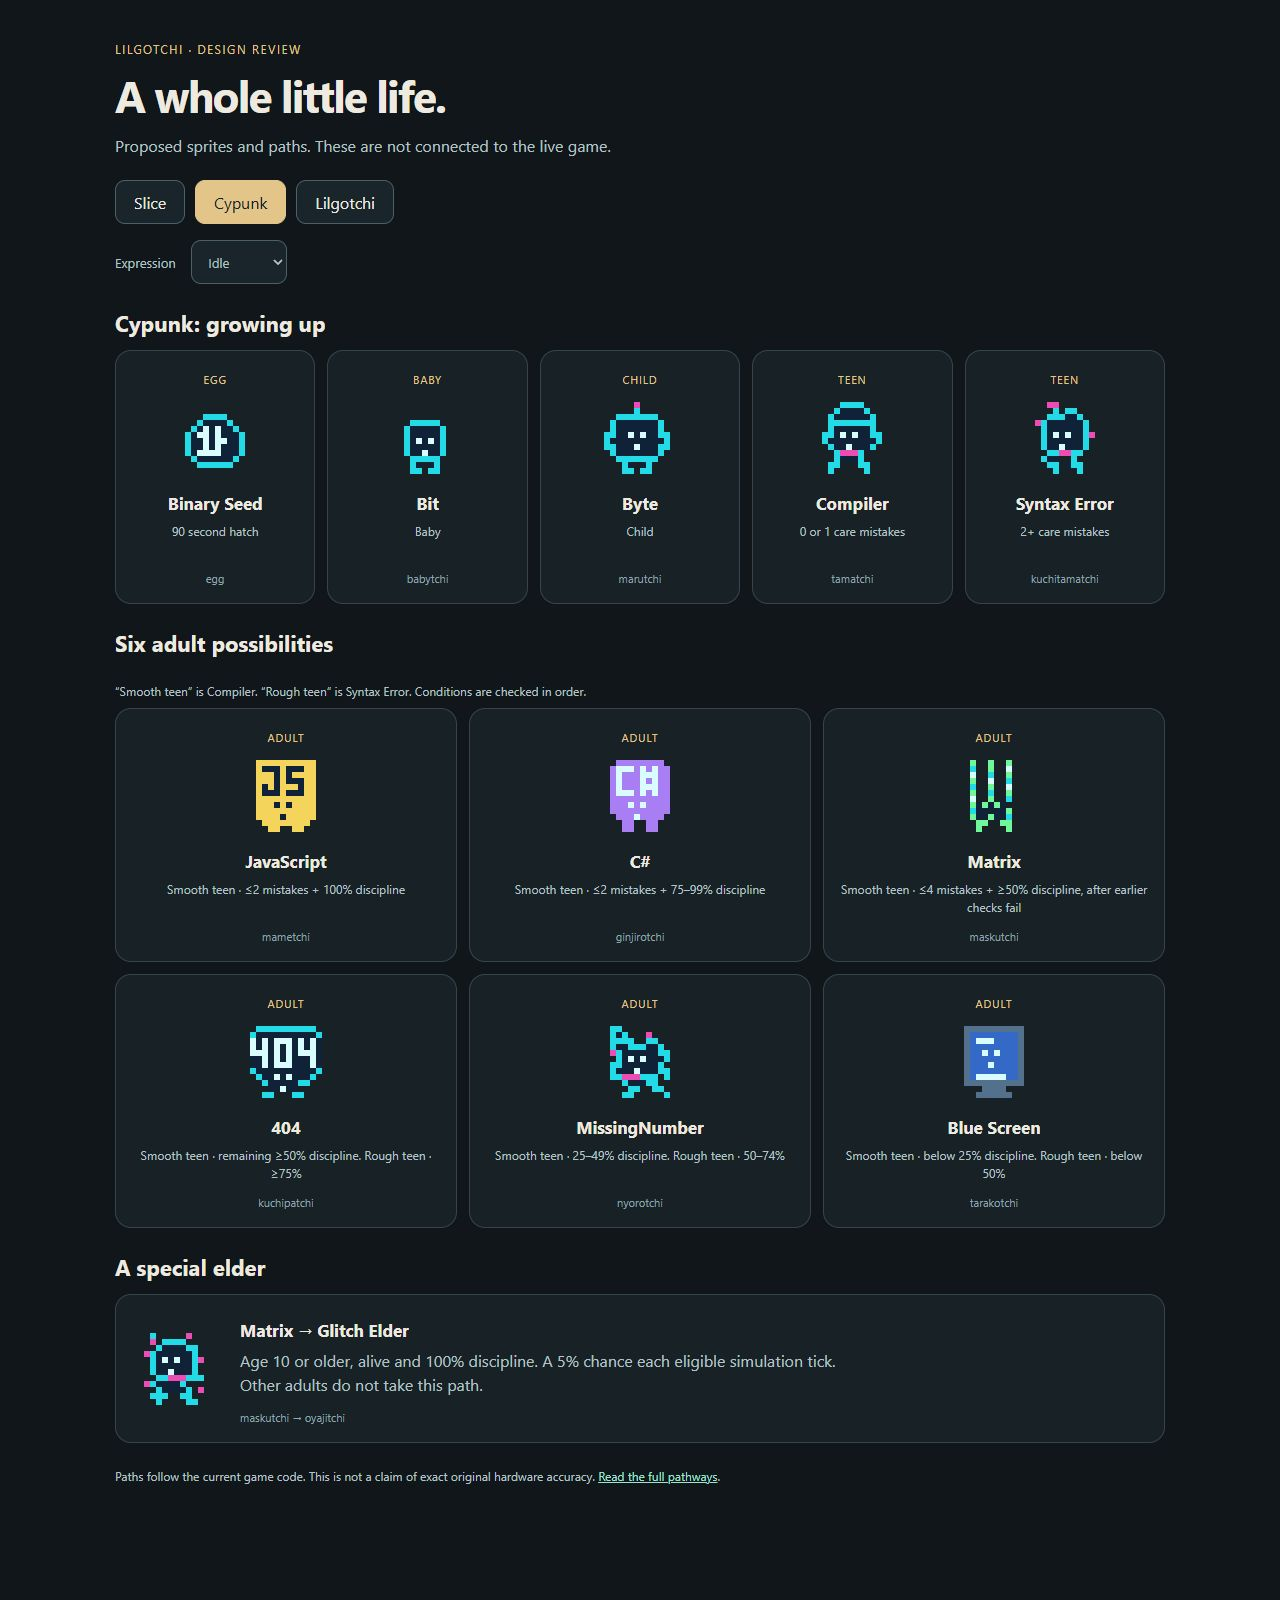
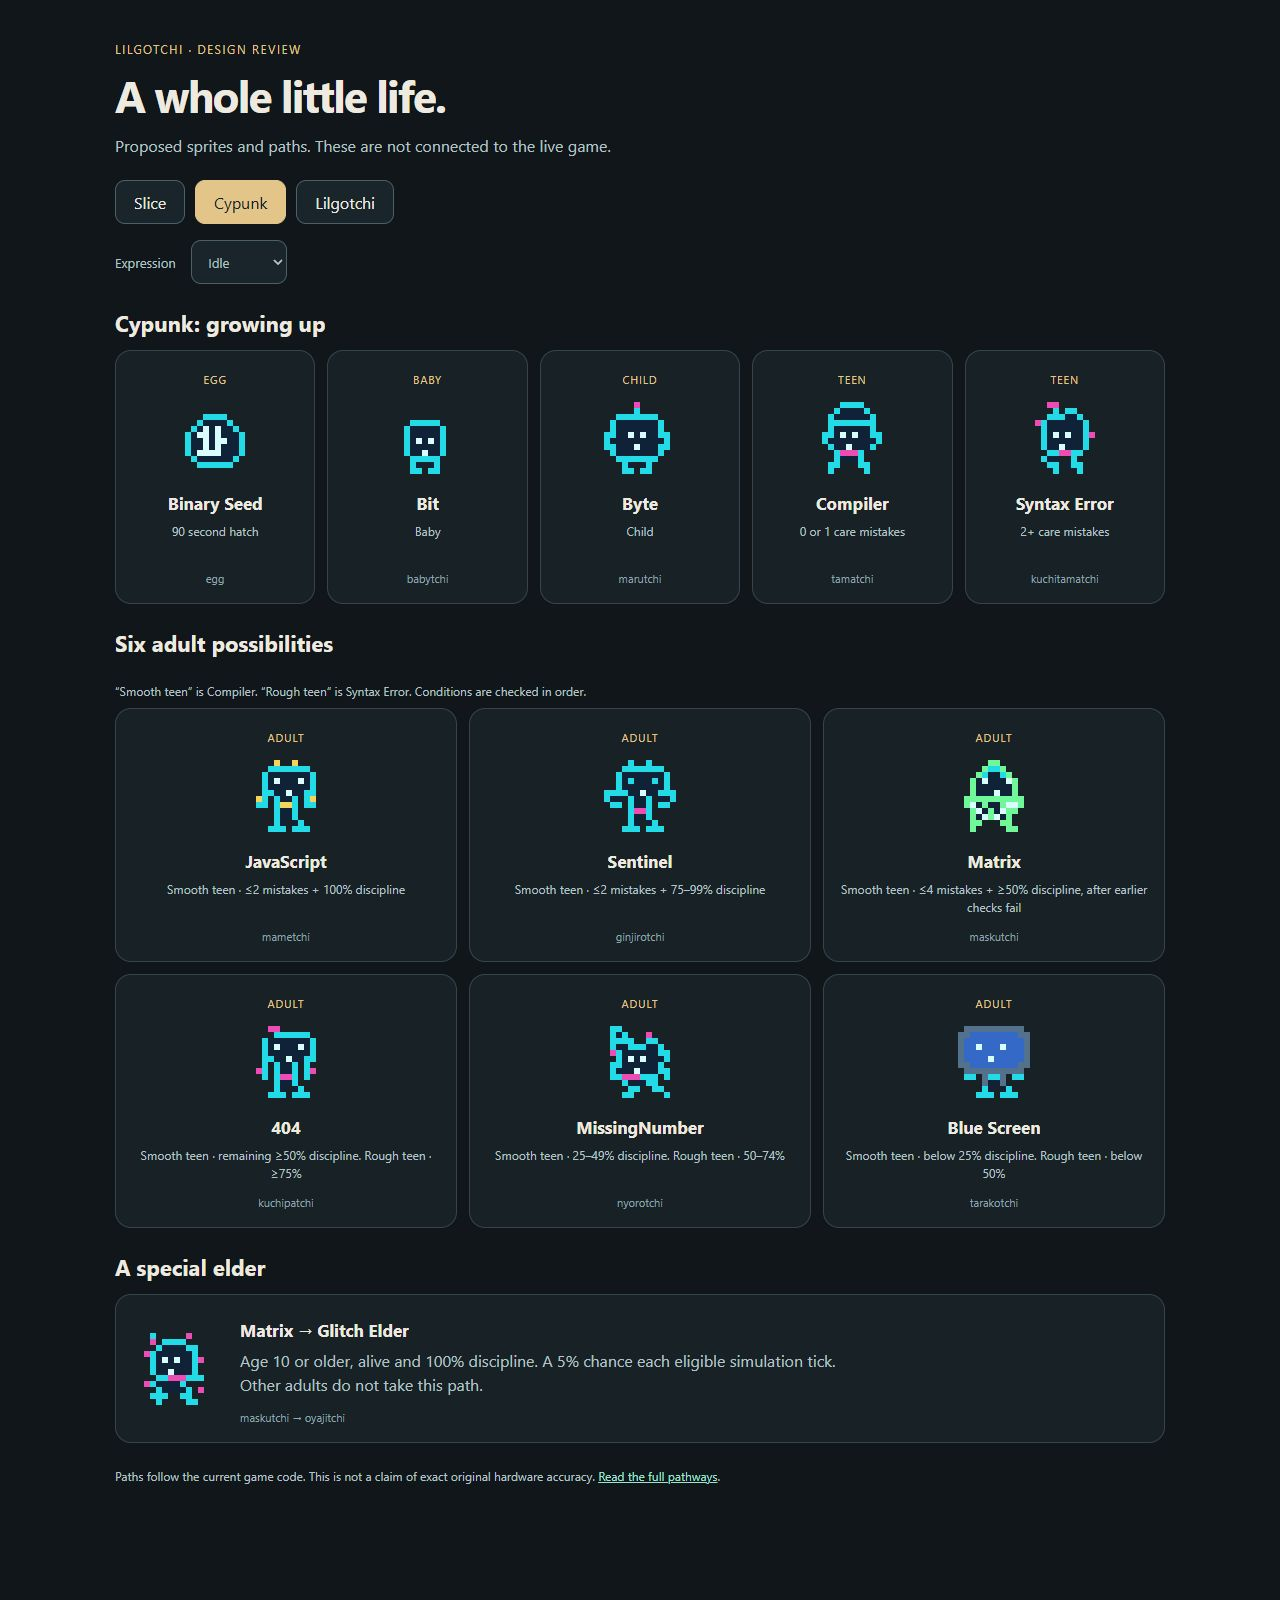
bring back the cypunk character

diff --git a/design/evolution/cypunk.js b/design/evolution/cypunk.js
@@ -1,14 +1,10 @@
 // Review proposals only. Nothing in the live game imports this module.
+import { cyberpunkSprites } from '../../pets/cyberpunk-sprites.js';
 const palette = ['', '#d9fcff', '#102238', '#22dbe7', '#ec4cb4', '#53718c', '#70f79a', '#f4d45b', '#a97ef5', '#3569c8'];
 const expressions = {
   idle1:['101','000','010'], idle2:['101','000','111'],
   happy:['101','000','101'], sad:['000','101','010'],
   eat:['101','010','111'], sleep:['000','101','000'],
-};
-const glyphs = {
-  J:['111','001','001','101','111'], S:['111','100','111','001','111'],
-  C:['111','100','100','100','111'], '#':['101','111','101','111','101'],
-  '4':['101','101','111','001','001'], '0':['111','101','101','101','111'],
 };
 const drawings = [
   {id:'egg',name:'Binary Seed',stage:'egg',rows:['000033330000','000322223000','003212122300','032112122230','032212112230','032212122230','032111122230','003222222300','000333333000','000000000000']},
@@ -16,12 +12,12 @@ const drawings = [
   {id:'marutchi',name:'Byte',stage:'child',face:[4,5],rows:['000004000000','000003000000','003333333000','032222222300','032222222300','332222222330','322222222230','332222222330','032222222300','003333333000','000320230000','000330330000']},
   {id:'tamatchi',name:'Compiler',stage:'teen',face:[4,5],rows:['000033330000','000322223000','003222222300','003333333300','003222222300','033222222330','032222222230','003222222300','000344430000','000322230000','003300033000','003000003000']},
   {id:'kuchitamatchi',name:'Syntax Error',stage:'teen',face:[4,5],rows:['000440000000','000030330000','000333223000','043222222300','003222222300','003222222340','003222222300','003222222300','000334433000','003220030000','000330233000','000030003000']},
-  {id:'mametchi',name:'JavaScript',stage:'adult',face:[4,7],background:7,ink:2,label:['JS',2,1,2],rows:['077777777770','077777777770','077777777770','077777777770','077777777770','077777777770','077777777770','077777777770','077777777770','077777777770','007777777700','000770077000']},
-  {id:'ginjirotchi',name:'C#',stage:'adult',face:[4,7],background:8,label:['C#',2,1,1],rows:['008888888800','088888888880','088888888880','088888888880','088888888880','088888888880','088888888880','088888888880','088888888880','008888888800','000880088000','000880088000']},
-  {id:'maskutchi',name:'Matrix',stage:'adult',face:[4,7],ink:6,rows:['006006006000','003006001000','001003006000','006001003000','003006001000','006003006000','001006003000','006222220000','003222226000','006222223000','000660066000','000600006000']},
-  {id:'kuchipatchi',name:'404',stage:'adult',face:[4,8],label:['404',0,2,1],rows:['033333333330','322222222223','222222222222','222222222222','222222222222','222222222222','222222222222','322222222223','032222222230','003222223300','000222220000','003300033000']},
+  {id:'mametchi',name:'JavaScript',stage:'adult',face:[4,3],faceWidth:5,rows:['000070070000','000333333300','003222222230','003222222230','003222222230','003333333330','073032230370','033037730330','000032230000','000032230000','000032023000','000333033300']},
+  {id:'ginjirotchi',name:'Sentinel',stage:'adult',original:true},
+  {id:'maskutchi',name:'Matrix',stage:'adult',face:[4,3],faceWidth:5,rows:['000006600000','000063360000','000632236000','006222222600','006222222600','006222222600','066666666660','061262261160','006126216600','006216126000','006600066000','006000006600']},
+  {id:'kuchipatchi',name:'404',stage:'adult',face:[4,3],faceWidth:5,rows:['000440000000','000033333300','003222222230','003222222230','003222222230','003333333330','003032230300','043032230340','003034430300','000032230000','000032023000','000333033300']},
   {id:'nyorotchi',name:'MissingNumber',stage:'adult',face:[4,5],rows:['033000000000','032300040000','033330033000','032233322300','043222222330','003222222230','033222222300','032222222330','033444333030','000322233000','000033003300','000330000030']},
-  {id:'tarakotchi',name:'Blue Screen',stage:'adult',face:[4,4],background:9,rows:['055555555550','059999999950','059111999950','059999999950','059999999950','059999999950','059999999950','059999999950','059111119950','055555555550','000055550000','000555555000']},
+  {id:'tarakotchi',name:'Blue Screen',stage:'adult',face:[3,3],faceWidth:5,background:9,rows:['055555555550','559999999955','599999999995','599999999995','599999999995','599999999995','559999999955','055555555550','033053350330','000052250000','000032023000','000333033300']},
   {id:'oyajitchi',name:'Glitch Elder',stage:'adult',face:[4,4],rows:['003000004000','004033330000','000322223300','043222222300','003222222340','003222222300','003222222300','000334443330','043222230000','000322223040','003330033000','000300003300']},
 ];
 function canvas(rows) {
@@ -29,20 +25,17 @@ function canvas(rows) {
   return [...Array(12-rows.length).fill(''),...rows].map(row=>[...row.padEnd(12,'0')].map(Number));
 }
 function draw(definition,expression) {
+  if(definition.original)return cyberpunkSprites.mametchi[expression];
   const pixels=canvas(definition.rows);
-  if(definition.label){
-    const [text,x,y,color]=definition.label;
-    [...text].forEach((letter,index)=>glyphs[letter].forEach((row,dy)=>[...row].forEach((pixel,dx)=>{
-      if(pixel==='1')pixels[y+dy][x+index*4+dx]=color;
-    })));
-  }
   if(definition.face){
     const [x,y]=definition.face;
-    expressions[expression].forEach((row,dy)=>[...row].forEach((pixel,dx)=>{
+    const wide={idle1:['10001','00000','00100'],idle2:['10001','00000','01110'],happy:['01010','10001','01110'],sad:['00000','10001','01110'],eat:['10001','00100','01110'],sleep:['00000','11011','00000']};
+    const face=definition.faceWidth===5?wide[expression]:expressions[expression];
+    face.forEach((row,dy)=>[...row].forEach((pixel,dx)=>{
       pixels[y+dy][x+dx]=pixel==='1'?(definition.ink||1):(definition.background||2);
     }));
   }
-  // Tiny accent movements preserve the label and body. No flashing or random noise.
+  // Small antenna and code movements keep the face and silhouette steady.
   if(expression==='idle2'){
     if(definition.id==='egg')pixels[9][7]=4;
     else if(definition.id==='maskutchi'){pixels[1][2]=1;pixels[2][2]=6;}

diff --git a/design/evolution/cypunk.md b/design/evolution/cypunk.md
@@ -11,15 +11,15 @@ These are review proposals only. They are not imported by the live game, include
 | marutchi | Byte | Wider chip with an antenna and side contacts |
 | tamatchi | Compiler | Upright terminal character with a neat head and body |
 | kuchitamatchi | Syntax Error | Uneven terminal with detached magenta pixels |
-| mametchi | JavaScript | Yellow square with a readable JS mark and a small face |
-| ginjirotchi | C# | Purple medallion with a readable C# mark and a small face |
-| maskutchi | Matrix | Three green code streams gathering into a face |
-| kuchipatchi | 404 | Wide floating error panel with three readable digits |
+| mametchi | JavaScript | Cyan robot with yellow antenna tips, scarf, hands and feet |
+| ginjirotchi | Sentinel | The original Cypunk adult, with its exact sprite and expressions |
+| maskutchi | Matrix | Green hooded companion with a face, code cloak and feet |
+| kuchipatchi | 404 | Lost little robot with a bent magenta antenna and lowered arms |
 | nyorotchi | MissingNumber | Original asymmetric block creature with broken edges and magenta fragments |
-| tarakotchi | Blue Screen | Blue monitor with a face, status lines and a stand |
+| tarakotchi | Blue Screen | Wide blue monitor companion with a face, arms and feet |
 | oyajitchi | Glitch Elder | Cyan elder made of separated chunks and magenta fragments |
 
-MissingNumber is an original abstract design, not a copied game sprite. Language marks and error numbers stay readable during care reactions. Matrix advances two accent pixels between idle poses. Glitch Elder shifts one detached pixel. Neither uses flashing or rapid color changes.
+MissingNumber is an original abstract design, not a copied game sprite. Faces stay readable during care reactions. Matrix advances two accent pixels between idle poses. Glitch Elder shifts one detached pixel. Neither uses flashing or rapid color changes.
 
 ## Pathways
 
@@ -30,7 +30,7 @@ Compiler adult routes are evaluated in this order. The first matching condition 
 | Priority | Requirement at adult evolution | Result |
 | --- | --- | --- |
 | 1 | At most two care mistakes and 100% discipline | JavaScript |
-| 2 | At most two care mistakes and at least 75% discipline | C# |
+| 2 | At most two care mistakes and at least 75% discipline | Sentinel |
 | 3 | At most four care mistakes and at least 50% discipline | Matrix |
 | 4 | At least 50% discipline, with earlier conditions not met | 404 |
 | 5 | At least 25% discipline, with earlier conditions not met | MissingNumber |
@@ -42,4 +42,11 @@ Matrix is the special elder route. Once it reaches age 10 or older with 100% dis
 
 ## Review questions
 
-Check that JS, C# and 404 remain legible at the actual game scale. Compare the three streams of Matrix against the irregular silhouette of MissingNumber. Keep Glitch Elder visibly older and more fragmented than Syntax Error. The preview should show all six expressions so the names are not the only distinguishing feature.
+Check that JavaScript, Sentinel and 404 feel like individual companions at the actual game scale. Compare the hooded Matrix against the irregular silhouette of MissingNumber. Keep Glitch Elder visibly older and more fragmented than Syntax Error. The preview should show all six expressions so the names are not the only distinguishing feature.
+
+
+## Character revision
+
+The C# badge is replaced by Sentinel, the exact original Cypunk adult sprite and expressions. Sentinel occupies the Ginjirotchi branch in this proposal. JavaScript is a friendly cyan robot with yellow antenna tips and a yellow scarf, not a lettering tile. 404 is a lost little robot with a bent magenta antenna and lowered arms, keeping the original Cypunk proportions. Neither wears a word or number across its face.
+
+Matrix has a visible face inside a green hood, a short cloak with falling code accents, and feet. Blue Screen is a wider monitor companion with a face, little arms and sturdy feet. MissingNumber and Glitch Elder retain their existing proposed shapes.

diff --git a/design/evolution/README.md b/design/evolution/README.md
@@ -7,7 +7,7 @@ Each new pet type covers all 12 original identities: egg, baby, child, two teens
 | Original adult | Slice | Cypunk | Lilgotchi |
 | --- | --- | --- | --- |
 | Mametchi | Margherita | JavaScript | Duck Egg |
-| Ginjirotchi | Pepperoni | C# | Quail Egg |
+| Ginjirotchi | Pepperoni | Sentinel | Quail Egg |
 | Maskutchi | BBQ Chicken | Matrix | Goose Egg |
 | Kuchipatchi | Meat Lovers | 404 | Jumbo Egg |
 | Nyorotchi | Anchovy | MissingNumber | Golden Egg |
